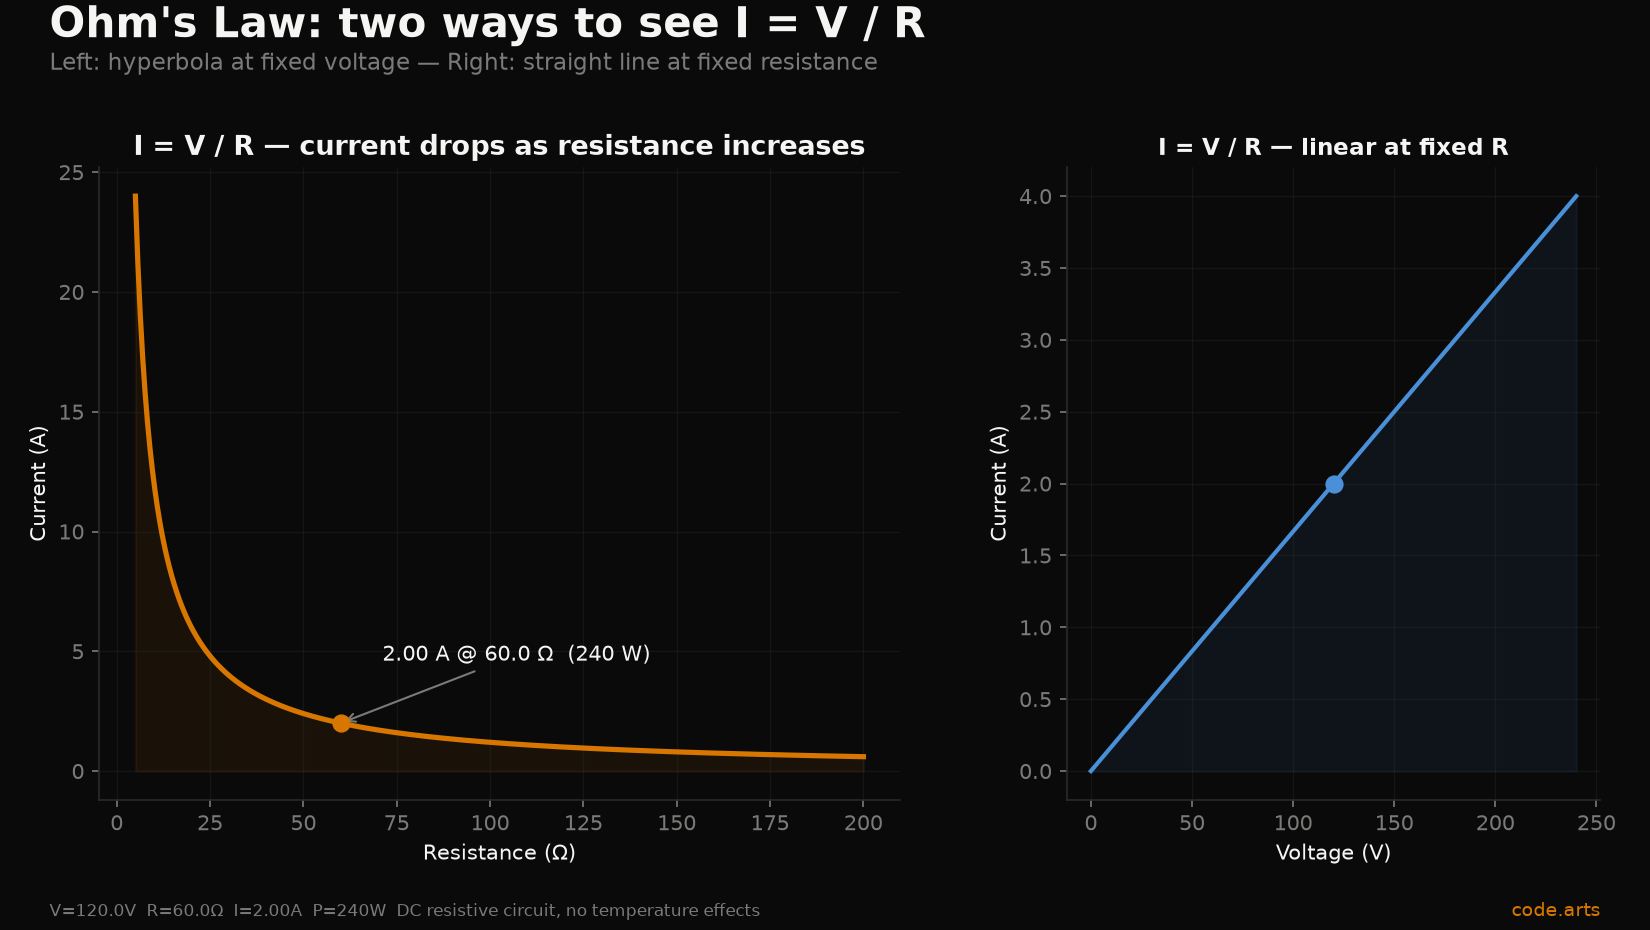
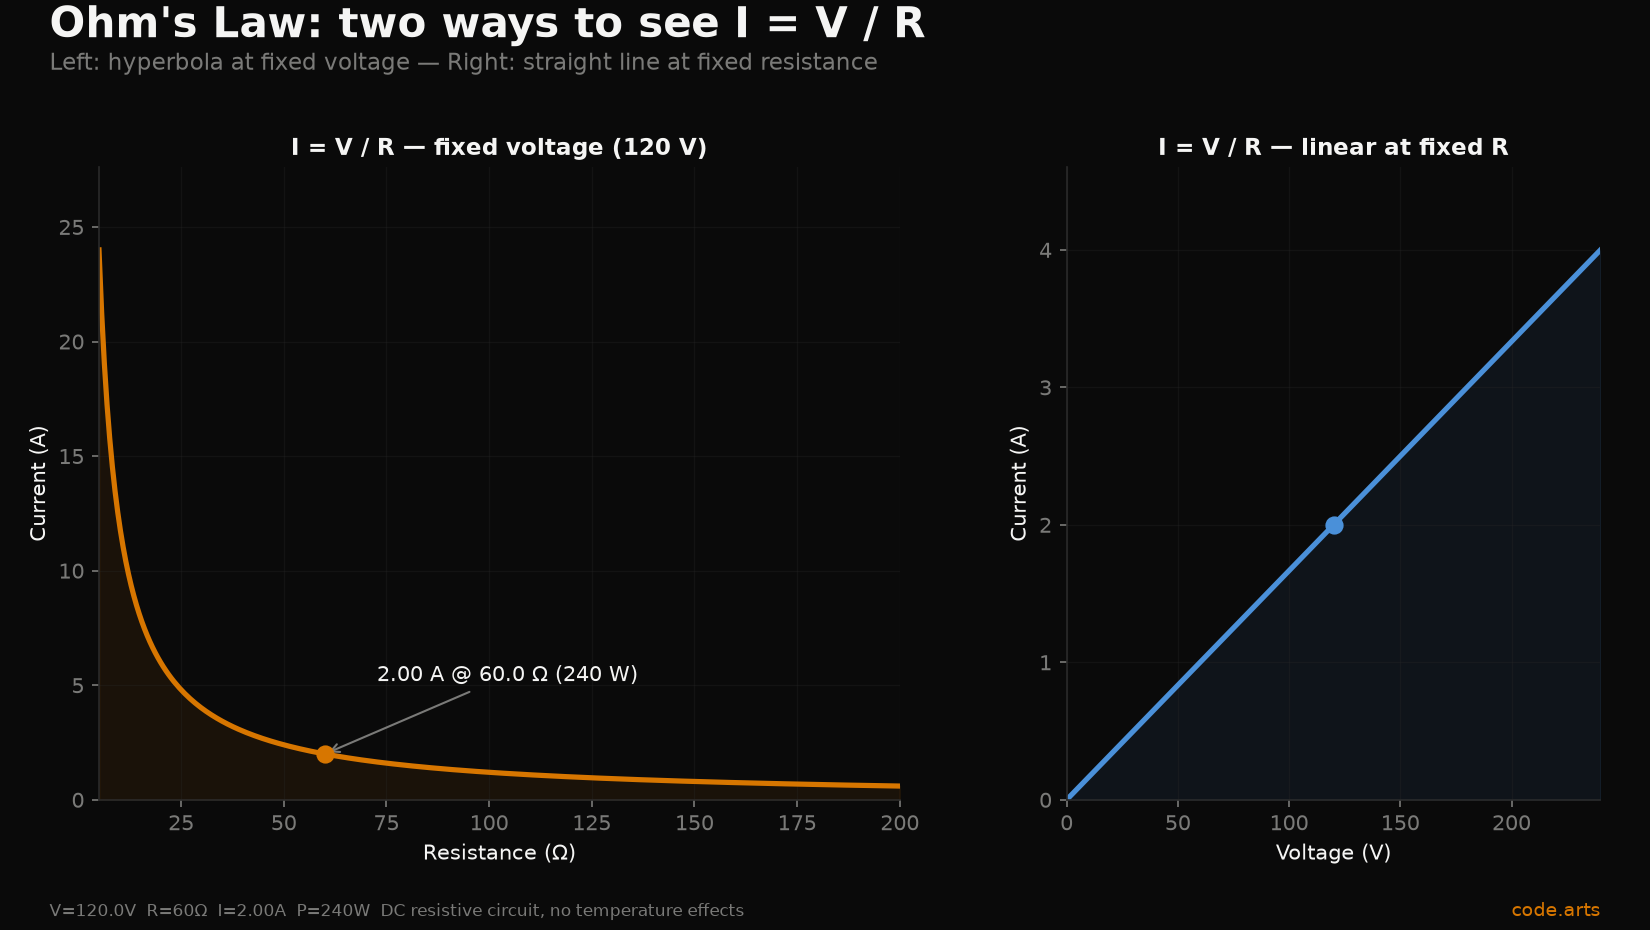
added ohms_law animated gif but with problem at second panel

diff --git a/scipts/ohms_law.py b/scipts/ohms_law.py
@@ -1,8 +1,6 @@
 """
-ohms_law.py
-Two-panel Ohm's Law visualization in the same visual language as the
-short-circuit example: I = V / R as both a non-linear (I vs R) and
-a linear (I vs V) relationship.
+ohms_law.py — static PNG + animated GIF
+Two-panel Ohm's Law: I vs R at fixed V (hyperbola) and I vs V at fixed R (line).
 """
 import sys, os
 sys.path.insert(0, os.path.dirname(os.path.dirname(os.path.abspath(__file__))))
@@ -12,61 +10,139 @@ import matplotlib.pyplot as plt
 from matplotlib.gridspec import GridSpec
 
 import theme
+from animate import make_animation, save_gif
 from physics import ohms_law
 
 theme.apply()
 
-# --- inputs ---------------------------------------------------------
-V_FIXED = 120.0          # volts, typical US residential circuit
-R_FIXED = 60.0            # ohms, the "answer" resistance
-resistances = np.linspace(5, 200, 300)
-voltages    = np.linspace(0, 240, 300)
+# --- parameters ---------------------------------------------------------
+V_FIXED = 120.0
+R_HIGHLIGHT = 60.0
+R_MIN, R_MAX = 5, 200
+V_MAX = 240
 
-i_curve = ohms_law.current_profile(V_FIXED, resistances)
-i_at_r  = ohms_law.current(V_FIXED, R_FIXED)
-p_at_r  = ohms_law.power(V_FIXED, R_FIXED)
+# --- static data -------------------------------------------------------
+resistances = np.linspace(R_MIN, R_MAX, 300)
+voltages = np.linspace(0, V_MAX, 300)
 
-# --- layout: hero panel + supporting panel, same bones as the GIF ---
+i_hyperbola = ohms_law.current_profile(V_FIXED, resistances)
+i_at_r = ohms_law.current(V_FIXED, R_HIGHLIGHT)
+p_at_r = ohms_law.power(V_FIXED, R_HIGHLIGHT)
+i_linear = voltages / R_HIGHLIGHT
+
+# --- figure --------------------------------------------------------------
 fig = plt.figure(figsize=(11, 6.2))
 gs = GridSpec(1, 2, figure=fig, width_ratios=[1.5, 1],
               left=0.06, right=0.97, top=0.82, bottom=0.14, wspace=0.25)
 
-ax_main = fig.add_subplot(gs[0, 0])
+ax_hero = fig.add_subplot(gs[0, 0])
 ax_side = fig.add_subplot(gs[0, 1])
 
-# hero panel: current vs resistance at fixed voltage
-ax_main.plot(resistances, i_curve, color=theme.ACCENT, linewidth=2.5)
-ax_main.fill_between(resistances, i_curve, color=theme.ACCENT, alpha=0.08)
-ax_main.set_xlabel("Resistance (Ω)")
-ax_main.set_ylabel("Current (A)")
-ax_main.set_title("I = V / R — current drops as resistance increases")
-ax_main.grid(True, alpha=0.4)
+# ======================= HERO — I vs R ==================================
+ax_hero.plot(resistances, i_hyperbola, color=theme.ACCENT, linewidth=2.5)
+ax_hero.fill_between(resistances, i_hyperbola, color=theme.ACCENT, alpha=0.08)
 
-# annotate the "answer"
-ax_main.scatter([R_FIXED], [i_at_r], color=theme.ACCENT, zorder=5, s=60)
-ax_main.annotate(f"{i_at_r:.2f} A @ {R_FIXED} Ω  ({p_at_r:.0f} W)",
-                  (R_FIXED, i_at_r), xytext=(20, 30),
-                  textcoords="offset points", color=theme.FG, fontsize=10,
-                  fontfamily=theme.FONT_MONO,
-                  arrowprops=dict(arrowstyle="->", color=theme.MUTED))
+ax_hero.set_xlim(R_MIN, R_MAX)
+ax_hero.set_ylim(0, i_hyperbola[0] * 1.15)
+ax_hero.set_xlabel("Resistance (Ω)")
+ax_hero.set_ylabel("Current (A)")
+ax_hero.set_title("I = V / R — fixed voltage (120 V)", fontsize=11)
+ax_hero.grid(True, alpha=0.3)
 
-# side panel: current vs voltage at fixed resistance (linear Ohm's Law)
-i_linear = voltages / R_FIXED
-ax_side.plot(voltages, i_linear, color=theme.SERIES[1], linewidth=2)
-ax_side.fill_between(voltages, i_linear, color=theme.SERIES[1], alpha=0.08)
-ax_side.scatter([V_FIXED], [i_at_r], color=theme.SERIES[1], zorder=5, s=60)
-ax_side.set_title("I = V / R — linear at fixed R", fontsize=11)
+static_dot_hero = ax_hero.scatter([R_HIGHLIGHT], [i_at_r],
+                                   color=theme.ACCENT, zorder=5, s=60)
+static_ann = ax_hero.annotate(
+    f"{i_at_r:.2f} A @ {R_HIGHLIGHT:.1f} Ω ({p_at_r:.0f} W)",
+    (R_HIGHLIGHT, i_at_r), xytext=(25, 35),
+    textcoords="offset points", color=theme.FG, fontsize=10,
+    fontfamily=theme.FONT_MONO,
+    arrowprops=dict(arrowstyle="->", color=theme.MUTED))
+
+# ======================= SIDE — I vs V ==================================
+side_plot, = ax_side.plot(voltages, i_linear, color=theme.SERIES[1], linewidth=2.5)
+side_fill = ax_side.fill_between(voltages, i_linear, color=theme.SERIES[1], alpha=0.08)
+side_dot_static = ax_side.scatter([V_FIXED], [i_at_r],
+                                   color=theme.SERIES[1], zorder=5, s=60)
+
+ax_side.set_xlim(0, V_MAX)
+ax_side.set_ylim(0, i_linear[-1] * 1.15)
 ax_side.set_xlabel("Voltage (V)")
 ax_side.set_ylabel("Current (A)")
-ax_side.grid(True, alpha=0.4)
+ax_side.set_title("I = V / R — linear at fixed R", fontsize=11)
+ax_side.grid(True, alpha=0.3)
 
+# ======================= HEADER / FOOTER ================================
 theme.header(fig,
     "Ohm's Law: two ways to see I = V / R",
     "Left: hyperbola at fixed voltage — Right: straight line at fixed resistance")
 theme.footer(fig,
-    f"V={V_FIXED}V  R={R_FIXED}Ω  I={i_at_r:.2f}A  P={p_at_r:.0f}W  "
+    f"V={V_FIXED}V  R={R_HIGHLIGHT:.0f}\u03a9  I={i_at_r:.2f}A  P={p_at_r:.0f}W  "
     "DC resistive circuit, no temperature effects",
     handle="code.arts")
 
+# ======================= SAVE STATIC ====================================
 fig.savefig("outputs/ohms_law.png", dpi=150)
 print("saved ohms_law.png")
+
+# ======================= ANIMATION ======================================
+# Hide static markers for the animation
+static_dot_hero.set_visible(False)
+static_ann.set_visible(False)
+static_ann.arrow_patch.set_visible(False)
+side_plot.set_visible(False)
+side_fill.set_visible(False)
+side_dot_static.set_visible(False)
+
+# Widen y-limits to accommodate the full animation sweep
+ax_side.set_ylim(0, V_MAX / R_MIN * 1.15)
+
+# Precompute sweep data
+n_frames = 100
+r_sweep = np.linspace(R_MIN, R_MAX, n_frames)
+i_sweep = V_FIXED / r_sweep
+p_sweep = V_FIXED ** 2 / r_sweep
+i_lines = np.array([voltages / r for r in r_sweep])  # (n_frames, 300)
+
+# Animated artists — hero
+hero_dot, = ax_hero.plot([], [], "o", color=theme.ACCENT, markersize=10,
+                         markeredgecolor=theme.FG, markeredgewidth=1.5, zorder=10)
+hero_vline, = ax_hero.plot([], [], color=theme.ACCENT, linewidth=1,
+                           linestyle="--", alpha=0.4)
+hero_hline, = ax_hero.plot([], [], color=theme.ACCENT, linewidth=1,
+                           linestyle="--", alpha=0.4)
+hero_label = ax_hero.text(0.05, 0.95, "", color=theme.FG, fontsize=10,
+                          fontfamily=theme.FONT_MONO, ha="left", va="top",
+                          transform=ax_hero.transAxes)
+
+# Animated artists — side
+side_line_anim, = ax_side.plot([], [], color=theme.SERIES[1], linewidth=2.5)
+side_dot_anim, = ax_side.plot([], [], "o", color=theme.SERIES[1], markersize=10,
+                              markeredgecolor=theme.FG, markeredgewidth=1.5, zorder=10)
+side_vline_anim, = ax_side.plot([], [], color=theme.SERIES[1], linewidth=1,
+                                linestyle="--", alpha=0.4)
+side_label = ax_side.text(0.05, 0.95, "", color=theme.FG, fontsize=10,
+                          fontfamily=theme.FONT_MONO, ha="left", va="top",
+                          transform=ax_side.transAxes)
+
+
+def update(frame):
+    r = r_sweep[frame]
+    i = i_sweep[frame]
+    p = p_sweep[frame]
+
+    # Hero
+    hero_dot.set_data([r], [i])
+    hero_vline.set_data([r, r], [0, i])
+    hero_hline.set_data([R_MIN, r], [i, i])
+    hero_label.set_text(f"R = {r:.1f} \u03a9\nI = {i:.2f} A\nP = {p:.0f} W")
+
+    # Side
+    side_line_anim.set_data(voltages, i_lines[frame])
+    side_dot_anim.set_data([V_FIXED], [i])
+    side_vline_anim.set_data([V_FIXED, V_FIXED], [0, i])
+    side_label.set_text(f"R = {r:.1f} \u03a9\nI = {i:.2f} A")
+
+
+anim = make_animation(fig, update, n_frames, fps=20)
+save_gif(anim, "outputs/ohms_law.gif", fps=20)
+plt.close(fig)

diff --git a/prompt.md b/prompt.md
@@ -3,4 +3,4 @@ Voltage divider
 
 Why: A single fixed snapshot doesn't show why the divider is useful; pairing it with how Vout moves across the full R2 range shows the divider as a tunable relationship, not one number.
 Panels (HeroAndSide): Hero — vertical bar representing V_total with a marker at the current Vout split, theme.ACCENT, R1/R2 values and Vout labeled. Side — Vout vs. R2 swept across a realistic range (0–R_total), current point highlighted, curve in theme.SERIES[1].  
-make also an animation for this, follow the other scripts and design patterns
+make also an animation for this, follow the other scripts and design patterns, analyze sample.py in both scripts/ and physics/ folders to understand the pattern, try not to analyze each code (except when you really need to i.e. you need more context) in the scripts/ & physics/ folder refer only to th samples